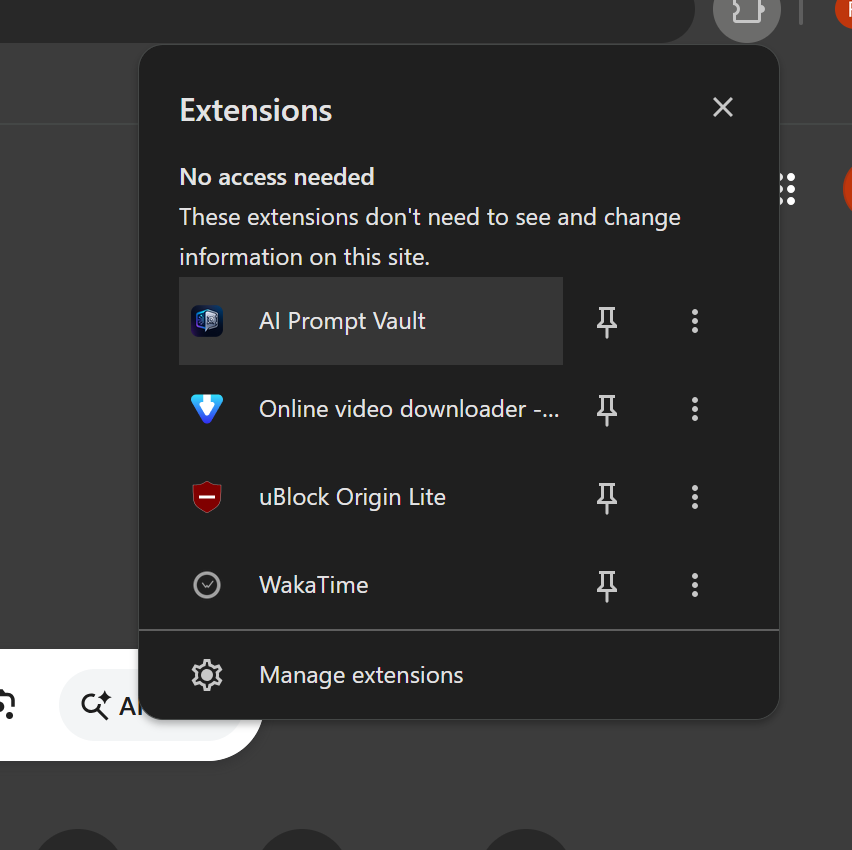
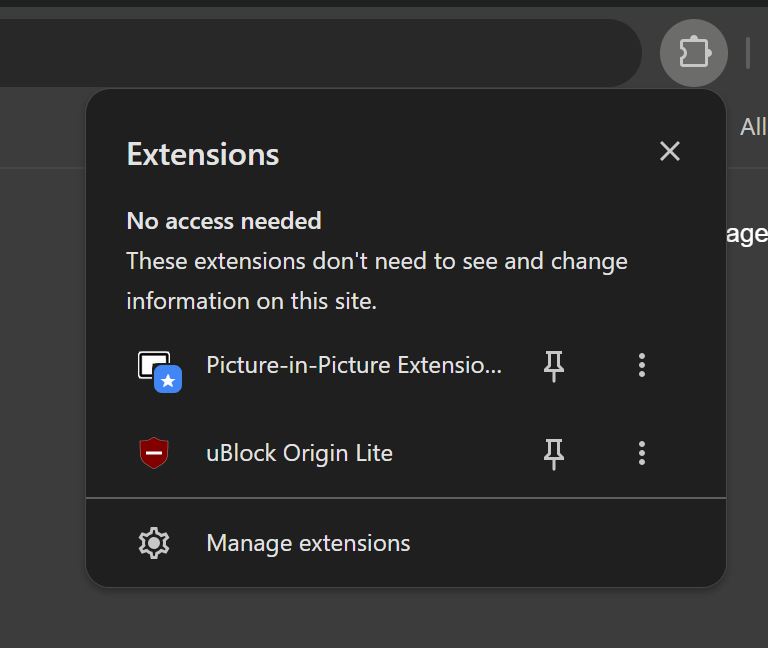
update Readme

diff --git a/README.md b/README.md
@@ -1,4 +1,4 @@
-<<<<<<< HEAD
+<<<<<<< HEAD >>>>>>>
 # ⚡ AI Prompt Vault
 
 > **A premium Chrome extension to save, organize, search, and copy your AI prompts — with a modern glassmorphism UI, dark/light themes, tags, archive, trash, bulk actions, and full import/export support.**
@@ -26,6 +26,16 @@
 | ⭐ Favorite | Marks as a favorite |
 | 📦 Archive | Moves to archive (hidden from main vault) |
 | 🗑 Delete | Moves to trash with a **5-second Undo** option |
+- 📝 Save prompts with a title and category
+- 🔍 Search across titles, categories, and prompt text
+- 📌 Pin important prompts to keep them at the top
+- 🏷 Category badges on every prompt
+- 🎯 Filter prompts by category
+- ⭐ Mark favorites and filter to show only favorites
+- ↕ Sort by newest, oldest, or alphabetically (A–Z / Z–A)
+- 📋 One-click copy to clipboard
+- 📤 Export prompts to a JSON file
+- 📥 Import prompts from a JSON file
 
 ### 📊 Dashboard
 - Total prompts, favorites, pinned, categories, archived, storage used
@@ -52,80 +62,10 @@
 ---
 
 =======
-# 🚀 AI Prompt Vault
-
-A Chrome extension to save, organize, search, pin, and instantly copy your frequently used AI prompts.
-
-## ✨ Features
-
-- 📝 Save prompts with a title and category
-- 🔍 Search across titles, categories, and prompt text
-- 📌 Pin important prompts to keep them at the top
-- 🏷 Category badges on every prompt
-- 🎯 Filter prompts by category
-- ⭐ Mark favorites and filter to show only favorites
-- ↕ Sort by newest, oldest, or alphabetically (A–Z / Z–A)
-- 📋 One-click copy to clipboard
-- 📤 Export prompts to a JSON file
-- 📥 Import prompts from a JSON file
-
-## 📦 Installation (Load Unpacked in Chrome)
-
-Since this extension isn't published on the Chrome Web Store yet, install it manually in Developer Mode using the steps below.
-
-### Step 1: Open the Extensions menu
-
-Click the puzzle-piece icon in the Chrome toolbar (top right, next to the address bar).
-
-![Click the Extensions icon]
-<img width="410" height="384" alt="Screenshot 2026-07-30 235157" src="https://github.com/user-attachments/assets/51f55376-d739-4ba4-a54f-d363f8a7989f" />
 
 
-### Step 2: Go to "Manage extensions"
-
-In the panel that opens, click **Manage extensions** at the bottom.
-
-![Click Manage extensions]
-<img width="852" height="850" alt="Screenshot 2026-07-30 235236" src="https://github.com/user-attachments/assets/1ee701d3-c6f3-4ee5-94b0-68c13a5a98f4" />
 
 
-### Step 3: Turn on Developer mode
-
-On the Extensions page, toggle **Developer mode** ON — it's in the top-right corner.
-
-![Enable Developer mode]
-<img width="592" height="400" alt="Screenshot 2026-07-30 235252" src="https://github.com/user-attachments/assets/6a888770-4592-44db-a002-61e552ebad3e" />
-
-
-### Step 4: Click "Load unpacked"
-
-Once Developer mode is on, new buttons appear at the top of the page. Click **Load unpacked**.
-
-![Click Load unpacked]
-<img width="754" height="422" alt="Screenshot 2026-07-30 235302" src="https://github.com/user-attachments/assets/26b43777-e199-4002-8550-72743051ca10" />
-
-
-### Step 5: Select the extension folder
-
-In the file picker, select the **Ai-prompt vault** folder (the folder containing `manifest.json`, `index.html`, `popup.js`, and `popup.css`), then click **Select Folder**.
-
-![Select the Ai-prompt vault folder]
-<img width="640" height="136" alt="Screenshot 2026-07-30 235321" src="https://github.com/user-attachments/assets/127a4192-13b4-47c4-a14b-3d4ef5308d66" />
-
-
-### Step 6: Pin it for easy access (optional)
-
-Click the puzzle-piece icon again, find **AI Prompt Vault** in the list, and click the pin icon so it stays visible in your toolbar.
-
----
-
-That's it! Click the **AI Prompt Vault** icon in your toolbar anytime to save, search, pin, and manage your AI prompts.
-
-## 🔄 Updating the Extension
-
-If you make changes to the code, go back to `chrome://extensions`, find **AI Prompt Vault**, and click the refresh/reload icon on its card to apply the changes.
-
->>>>>>> 0c17ce9f7bdda3fef0c781f3bc0a2f5d941575e3
 ## 📁 Project Structure
 
 ```
